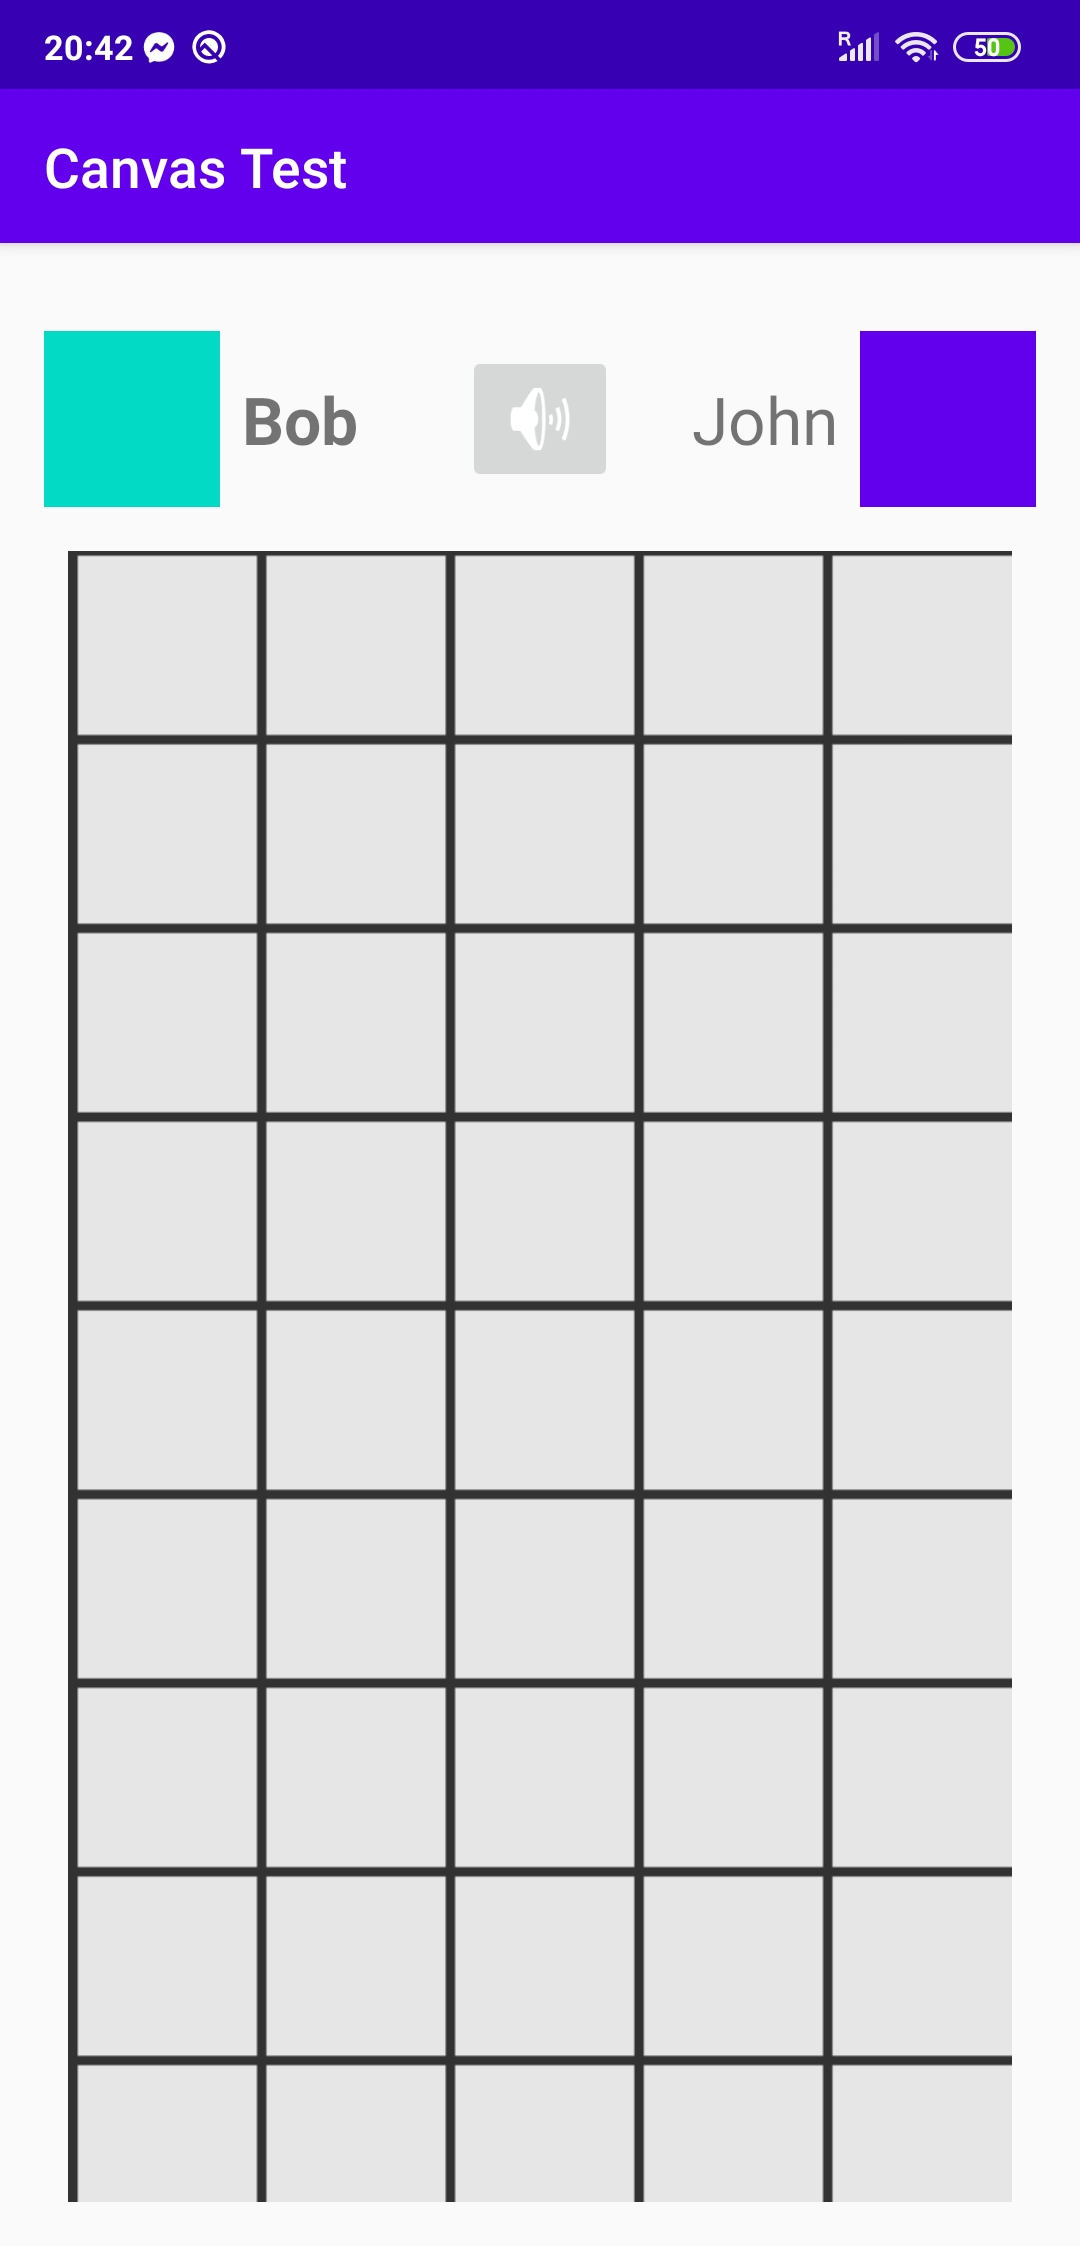
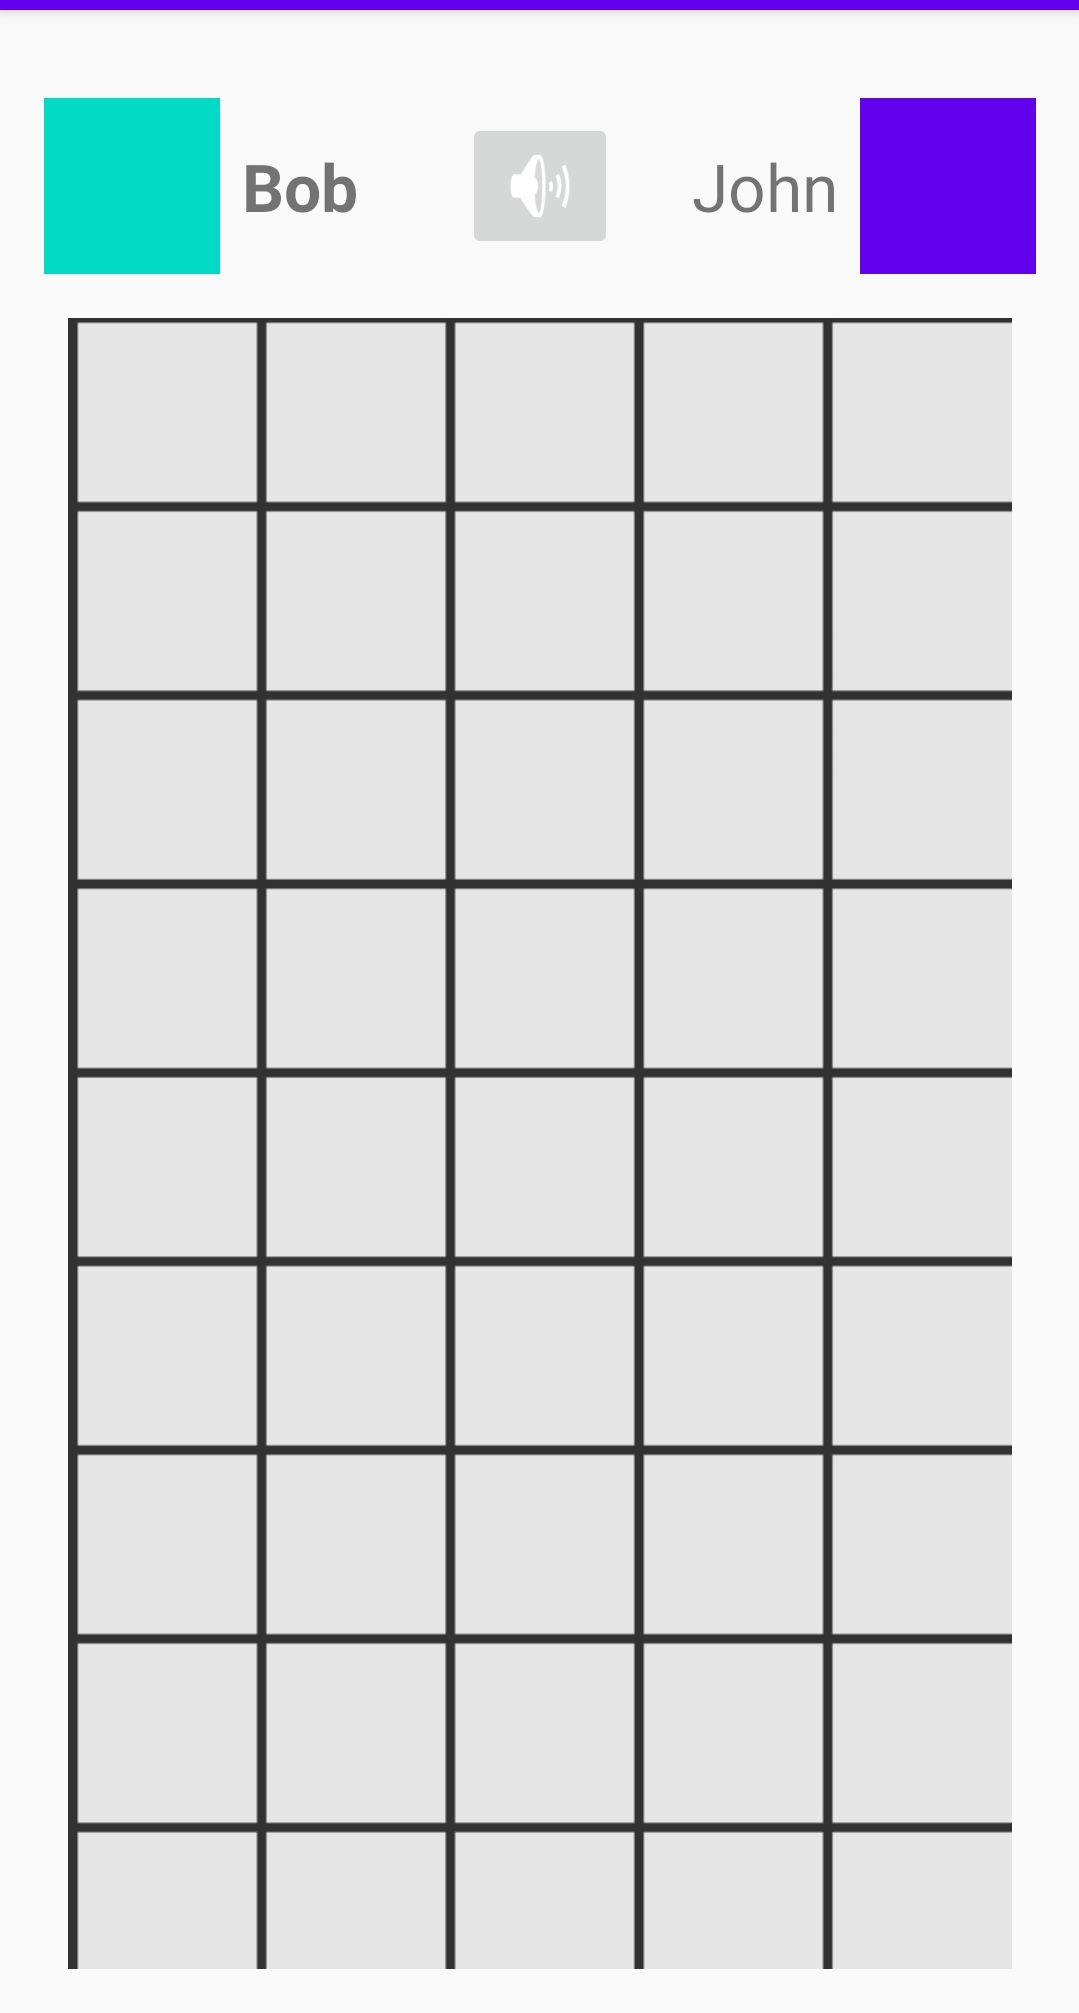
Funkspec. megjelenítési hibák javítása

Changed region(s): [[0.0, 0.0, 1.0, 0.9856], [0.4588, 0.154, 0.5505, 0.2156]]

diff --git a/1_project/Funkcionálisspecifikáció.md b/1_project/Funkcionálisspecifikáció.md
@@ -36,14 +36,15 @@ játék adatait, azaz a lépések számát és az időt. A játékban jól elkü
 - K05 Játékosok adatainak JSON formátumú állományban való eltárolása
   - A programban lehetőség lesz a statisztikák megnézésére, hogy kinek hány alkalommal sikerült nyernie, ez a High Scores feliratú gomb megnyomásával érhető el
 # 9. Képernyő tervek
-## 9.1 ![Image of UI prototype](img/prototype_menu.png)
+## 9.1 <br/> ![Image of UI prototype](img/prototype_menu.png)
 Az első lépernyőről egy gombnyomással elindíthatjuk a játékot vagy megnézhetjük, hogy ki hányszor nyert, illetve kiléphetünk a játékból ha már nincs időnk játszani. A jobb felső sarokban levő gombbal ki/be kapcsolhatjuk a hangot. Ezek a legalapvetőbb funkciók, amelyeket valaki a menüből el akarna érni.
-## 9.2 ![Image of UI prototype](img/prototype_prep.png)
+## 9.2 <br/> ![Image of UI prototype](img/prototype_prep.png)
 Amikor a menüből elindítjuk a játékot, ez a képernyő jelenik meg, ahol a játékosok a szövegmezőkben megadhatják a nevüket és a képre kattintva kiválaszthatnak egy képet a karakterüknek. Végül a "START" gombra nyomva elindítható a játék.
-## 9.3 ![Image of UI prototype](img/prototype_game.png)
+## 9.3 <br/> <img src="img/prototype_game.png" alt="drawing" width="357" height="628"/>
 A képernyő tetején a játékosok ikonja mellett látható a nevük. A jelenlegi játékos neve ki van emelve, ezzel jelezve, hogy ő következik. A képernyő közepén helyezkedik el a játékmező, amely mozgatható. A játék végén megnyílik a "High score" képernyő, ahol megtekinthetjük, hogy ki hányszor nyert.
-## 9.4 ![Image of UI prototype](img/prototype_scores.png)
+## 9.4 <br/> ![Image of UI prototype](img/prototype_scores.png)
 Ezen a képernyőn név alapján megnézhetjük, hogy ki hányszor nyert. A "BACK TO MENU" gombra menve visszaléphetünk a főmenübe.
+
 # 10. Forgatókönyvek
 Amikor felhasználók az alkalmazást megnyitva a kezdőképernyőn kiválasztják hogy 1v1 elleni játékot szertnének játszani, majd beírják a nevüket. A nevek alatti start gombra
 kattintva indul is a játék. Átkerülnek a játéktérre ami egy négyzetháló ami kezdetben 3X3-as, erre felváltva elhelyezik az X illetve az O jelet. Ha ez a játákmező megtelik
